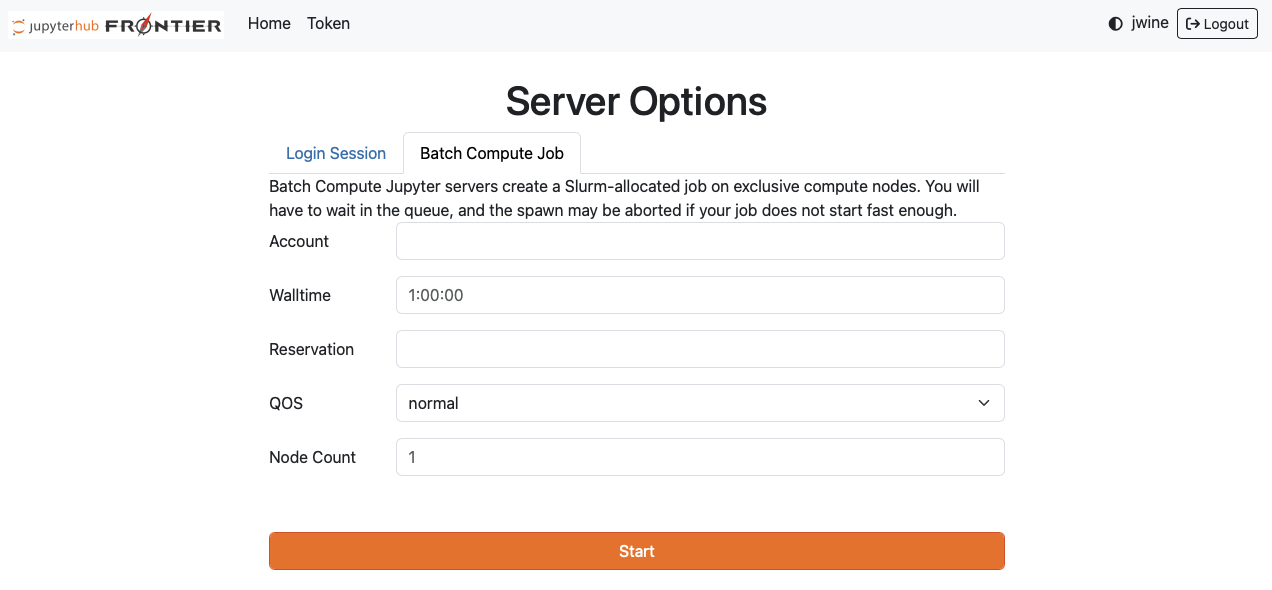
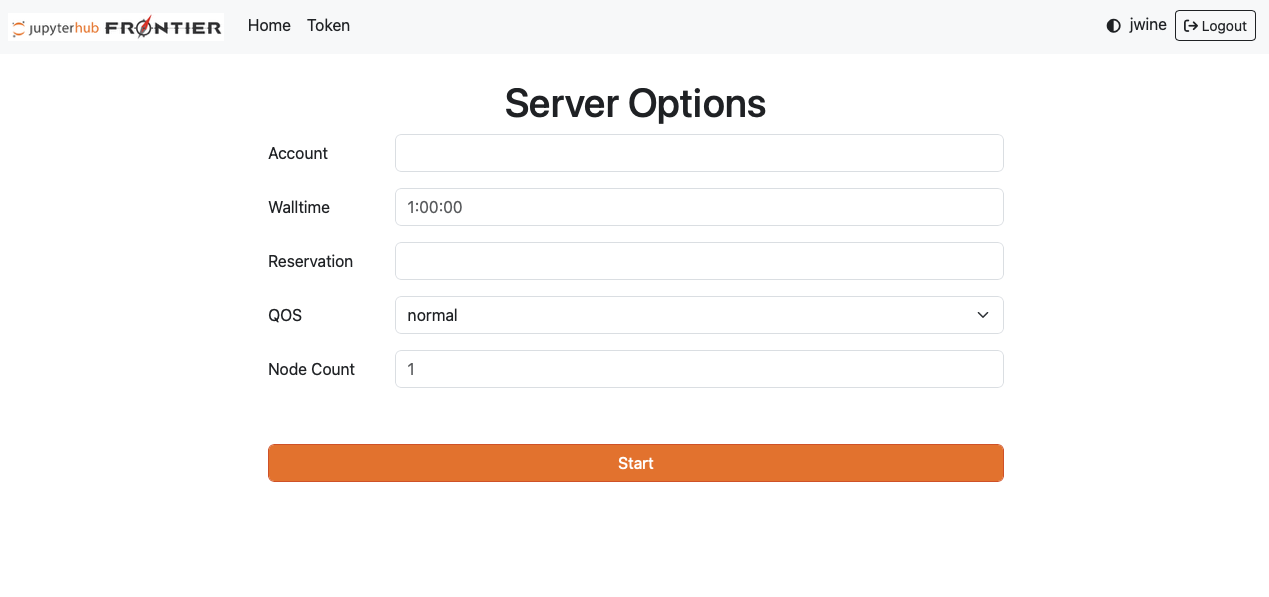
Update and format cleanup

diff --git a/software/jupyter_on_frontier.rst b/software/jupyter_on_frontier.rst
@@ -23,25 +23,20 @@ All OLCF moderate accounts should have access to Jupyter on Frontier at https://
 
 After navigating to the JupyterHub URL, you will be prompted to log in using your OLCF account name and PASSCODE on the following page:
 
-.. image:: /images/jupyter/frontier_login.png
+.. figure:: /images/jupyter/frontier_login.png
    :width: 600px
    :align: center
 
-After successfully logging in and starting your Jupyter server, you will be presented with two options to launch your Jupyter session:
+After successfully logging in and starting your Jupyter server, you will be presented with account parameters to launch your Jupyter session:
 
-- **Login Session**: Launch a Jupyter session on a shared login node.
-- **Batch Compute Job**: Request a Jupyter session on a compute node via a SLURM batch job.
-
-.. image:: /images/jupyter/frontier_batch_server_option.png
+.. figure:: /images/jupyter/frontier_batch_server_option.png
    :width: 800px
    :align: center
 
+When requesting a Jupyter session, the Frontier :ref:`frontier-scheduling` will be applied to your Jupyter session request.
 
-.. note::
-    The **Login Session** is not currently available. Please use the **Batch Compute Job** option to launch your Jupyter session.
-    Additionally, the **Batch Compute Job** will timeout after 5 minutes if a connection to a compute node cannot be established.
-
-When using the **Batch Compute Job**, the Frontier :ref:`frontier-scheduling` will be applied to your Jupyter session request.
+.. warning::
+    If your Jupyter session is not launched in 5 minutes, it will timeout and you will need to re-submit your request.
 
 
 Launching a Notebook
@@ -51,14 +46,15 @@ by clicking the **Python 3** icon under the **Notebook** section of the **Launch
 The default Jupyter kernel uses a Python 3.11 kernel, or launch a custom kernel if you have created and exposed one as 
 described in :doc:`Jupyter Visibility </software/python/jupyter_envs>`.
 
-.. image:: /images/jupyter/frontier_launch_page.png
+.. figure:: /images/jupyter/frontier_launch_page.png
    :width: 800px
    :align: center
 
+\
 
 .. tip::
     You can naviagate to any directory normally accessible to you on Frontier by navigating to `File >> Open from Path...` and inputting
-    the full path to the directory you wish to access. E.g., `/lustre/orion/scratch/user/project`
+    the full path to the directory you wish to access. E.g., `/lustre/orion/scratch/user/project`.
 
 
 API Token
@@ -67,13 +63,11 @@ Users have the option to interact with their Jupyter session programmatically vi
 Tokens can be generated by navigating to `File >> Hub Control Panel >> Token`. Once on the Token page, you can
 specify the token parameters and click the **Request new API Token** button to generate a new token.
 
-.. image:: /images/jupyter/frontier_token_page.png
+.. figure:: /images/jupyter/frontier_token_page.png
    :width: 800px
    :align: center
 
-
 Additionally, any currently active tokens can be viewed and managed in the **API Tokens** and **Authorized Applications** subsections on the Token page
-
 
 Example PyTorch Jupyter Notebook
 ---------------------------------
@@ -115,12 +109,18 @@ Finally, make the kernel visible to Jupyter notebooks:
 
 If successful, you should see the kernel on the JupyterHub launcher page:
 
-.. image:: /images/jupyter/frontier_launch_pytorch.png
+.. figure:: /images/jupyter/frontier_launch_pytorch.png
    :width: 800px
    :align: center
+
+\
 
 Additionally, you can verify that Jupyter notebook is seeing all GPUs on a Frontier compute node by running the following code in a notebook cell:
 
-.. image:: /images/jupyter/frontier_torch_check.png
+.. figure:: /images/jupyter/frontier_torch_check.png
    :width: 800px
    :align: center
+
+\
+
+
